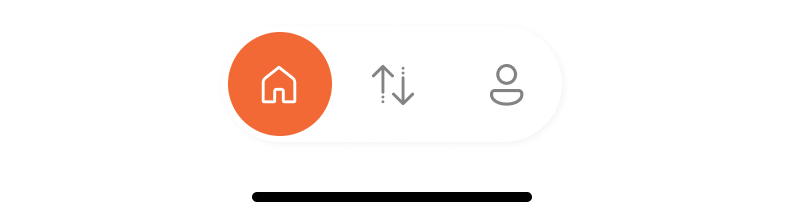
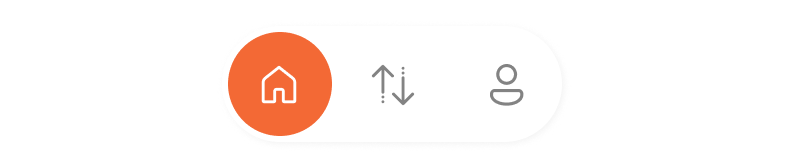
Crypex kit: no phone chrome on any part, variants grouped per tile, smaller scale
Status bar and home indicator removed from top bars, tab bars and the
primary button; one tile per component with its variants inside; parts at
62% (keypad, pickers and lists at 50%); 20 tiles instead of 39.

diff --git a/work/crypex.html b/work/crypex.html
@@ -415,73 +415,58 @@
             <p>Each state lives as a variant in Figma, so the build never depends on guesswork. The bell turns orange when there's something new, the tab bar has one state per tab, and the main action works both on the page and on a sheet. Service cards carry a badge for what's new or coming soon, so the roadmap shows up in the app itself.</p>
           </div>
           <div class="frame cx-kit">
-            <span class="frame__label"><b>Components</b> 6 groups · 42 parts</span>
+            <span class="frame__label"><b>Components</b> 6 groups · 39 parts</span>
             <div class="cx-kit__group">
               <p class="cx-label">Navigation</p>
-              <div class="cx-kit__flow">
-                <figure style="--w: 350px"><img src="../assets/img/crypex/components/topbar-greeting.webp" width="393" height="130" alt="Top bar with the status bar, “Olá, Rafael” and a grey bell." loading="lazy"><figcaption>Top bar · greeting</figcaption></figure>
-                <figure style="--w: 350px"><img src="../assets/img/crypex/components/topbar-greeting-alert.webp" width="393" height="130" alt="Top bar with “Olá, Rafael” and an orange bell for new notifications." loading="lazy"><figcaption>Top bar · new notification</figcaption></figure>
-                <figure style="--w: 350px"><img src="../assets/img/crypex/components/topbar-title-close.webp" width="393" height="130" alt="Top bar with the title “Pagamentos” and a close button." loading="lazy"><figcaption>Top bar · title and close</figcaption></figure>
-                <figure style="--w: 350px"><img src="../assets/img/crypex/components/topbar-title.webp" width="393" height="130" alt="Top bar with the title “Pagamentos” only." loading="lazy"><figcaption>Top bar · title</figcaption></figure>
-                <figure style="--w: 350px"><img src="../assets/img/crypex/components/tab-home.webp" width="393" height="108" alt="Tab bar with Home active in an orange circle." loading="lazy"><figcaption>Tab bar · home</figcaption></figure>
-                <figure style="--w: 350px"><img src="../assets/img/crypex/components/tab-pay.webp" width="393" height="108" alt="Tab bar with Pay active in an orange circle." loading="lazy"><figcaption>Tab bar · pay</figcaption></figure>
-                <figure style="--w: 350px"><img src="../assets/img/crypex/components/tab-profile.webp" width="393" height="108" alt="Tab bar with Profile active in an orange circle." loading="lazy"><figcaption>Tab bar · profile</figcaption></figure>
-                <figure style="--w: 328px"><img src="../assets/img/crypex/components/stepper.webp" width="367" height="68" alt="Back button, “Preencha seus dados pessoais” and three progress dots with the second one active." loading="lazy"><figcaption>Step header</figcaption></figure>
-                <figure style="--w: 326px"><img src="../assets/img/crypex/components/tabs.webp" width="365" height="46" alt="A single “Enviados” tab, underlined, above a divider." loading="lazy"><figcaption>Tabs</figcaption></figure>
+              <div class="cx-kit__board">
+                <figure class="cx-tile"><div class="cx-tile__art"><img src="../assets/img/crypex/components/topbar-greeting.webp" width="244" height="24" style="width: 244px" alt="Top bar with “Olá, Rafael” and a grey bell." loading="lazy"><img src="../assets/img/crypex/components/topbar-greeting-alert.webp" width="244" height="24" style="width: 244px" alt="Top bar with “Olá, Rafael” and an orange bell for new notifications." loading="lazy"><img src="../assets/img/crypex/components/topbar-title-close.webp" width="244" height="24" style="width: 244px" alt="Top bar with the title “Pagamentos” and a close button." loading="lazy"><img src="../assets/img/crypex/components/topbar-title.webp" width="244" height="24" style="width: 244px" alt="Top bar with the title “Pagamentos” only." loading="lazy"></div><figcaption><b>Top bar</b><span>Greeting · new notification · title and close · title</span></figcaption></figure>
+                <figure class="cx-tile"><div class="cx-tile__art"><img src="../assets/img/crypex/components/tab-home.webp" width="244" height="52" style="width: 244px" alt="Tab bar with Home active." loading="lazy"><img src="../assets/img/crypex/components/tab-pay.webp" width="244" height="52" style="width: 244px" alt="Tab bar with Pay active." loading="lazy"><img src="../assets/img/crypex/components/tab-profile.webp" width="244" height="52" style="width: 244px" alt="Tab bar with Profile active." loading="lazy"></div><figcaption><b>Tab bar</b><span>Home · pay · profile</span></figcaption></figure>
+                <figure class="cx-tile"><div class="cx-tile__art"><img src="../assets/img/crypex/components/stepper.webp" width="228" height="42" style="width: 228px" alt="Back button, a step title and three progress dots with the second one active." loading="lazy"></div><figcaption><b>Step header</b><span>Back, title and progress</span></figcaption></figure>
               </div>
             </div>
             <div class="cx-kit__group">
               <p class="cx-label">Actions</p>
-              <div class="cx-kit__flow">
-                <figure style="--w: 350px"><img src="../assets/img/crypex/components/cta.webp" width="393" height="108" alt="Full-width orange Continue button above the home indicator." loading="lazy"><figcaption>Primary · on the page</figcaption></figure>
-                <figure style="--w: 357px"><img src="../assets/img/crypex/components/cta-sheet.webp" width="401" height="116" alt="The same Continue button on a white sheet." loading="lazy"><figcaption>Primary · on a sheet</figcaption></figure>
-                <figure style="--w: 326px"><img src="../assets/img/crypex/components/btn-google.webp" width="365" height="68" alt="Grey button with the Gmail logo: Entrar com Google." loading="lazy"><figcaption>Secondary · Google</figcaption></figure>
-                <figure style="--w: 326px"><img src="../assets/img/crypex/components/btn-apple.webp" width="365" height="68" alt="Grey button with the Apple logo: Entrar com Apple ID." loading="lazy"><figcaption>Secondary · Apple</figcaption></figure>
-                <figure style="--w: 137px"><img src="../assets/img/crypex/components/link-forgot.webp" width="145" height="39" alt="Underlined grey link: Esqueceu a senha?" loading="lazy"><figcaption>Text link</figcaption></figure>
-                <figure style="--w: 197px"><img src="../assets/img/crypex/components/link-signup.webp" width="215" height="40" alt="“Novo na Crypex?” followed by an orange Cadastre-se link." loading="lazy"><figcaption>Inline link</figcaption></figure>
-                <figure style="--w: 318px"><img src="../assets/img/crypex/components/keypad.webp" width="356" height="310" alt="Numeric keypad with Limpar and an active orange Continuar." loading="lazy"><figcaption>Keypad · ready</figcaption></figure>
-                <figure style="--w: 318px"><img src="../assets/img/crypex/components/keypad-off.webp" width="356" height="78" alt="Limpar and Continuar in grey, before an amount is typed." loading="lazy"><figcaption>Keypad actions · off</figcaption></figure>
+              <div class="cx-kit__board">
+                <figure class="cx-tile"><div class="cx-tile__art"><img src="../assets/img/crypex/components/cta.webp" width="244" height="47" style="width: 244px" alt="Full-width orange Continue button." loading="lazy"><img src="../assets/img/crypex/components/btn-google.webp" width="226" height="42" style="width: 226px" alt="Grey button with the Gmail logo: Entrar com Google." loading="lazy"><img src="../assets/img/crypex/components/btn-apple.webp" width="226" height="42" style="width: 226px" alt="Grey button with the Apple logo: Entrar com Apple ID." loading="lazy"></div><figcaption><b>Buttons</b><span>Primary · Google · Apple</span></figcaption></figure>
+                <figure class="cx-tile"><div class="cx-tile__art"><img src="../assets/img/crypex/components/link-forgot.webp" width="116" height="31" style="width: 116px" alt="Underlined grey link: Esqueceu a senha?" loading="lazy"><img src="../assets/img/crypex/components/link-signup.webp" width="172" height="32" style="width: 172px" alt="“Novo na Crypex?” followed by an orange Cadastre-se link." loading="lazy"></div><figcaption><b>Links</b><span>Text link · inline link</span></figcaption></figure>
+                <figure class="cx-tile"><div class="cx-tile__art"><img src="../assets/img/crypex/components/keypad.webp" width="178" height="155" style="width: 178px" alt="Numeric keypad with Limpar and an active orange Continuar." loading="lazy"><img src="../assets/img/crypex/components/keypad-off.webp" width="178" height="39" style="width: 178px" alt="Limpar and Continuar in grey, before an amount is typed." loading="lazy"></div><figcaption><b>Keypad</b><span>Ready · actions off</span></figcaption></figure>
               </div>
             </div>
             <div class="cx-kit__group">
               <p class="cx-label">Inputs</p>
-              <div class="cx-kit__flow">
-                <figure style="--w: 326px"><img src="../assets/img/crypex/components/field-empty.webp" width="365" height="70" alt="Empty text field with the placeholder Nome." loading="lazy"><figcaption>Text field · empty</figcaption></figure>
-                <figure style="--w: 326px"><img src="../assets/img/crypex/components/field-filled.webp" width="365" height="70" alt="Filled field: a small Email label above rafael.nogueira@email.com." loading="lazy"><figcaption>Text field · filled</figcaption></figure>
-                <figure style="--w: 326px"><img src="../assets/img/crypex/components/field-password.webp" width="365" height="70" alt="Password field with a small Senha label and an eye icon." loading="lazy"><figcaption>Password · filled</figcaption></figure>
-                <figure style="--w: 328px"><img src="../assets/img/crypex/components/field-error.webp" width="368" height="87" alt="Field with a red label and underline and the message: passwords don’t match." loading="lazy"><figcaption>Text field · error</figcaption></figure>
-                <figure style="--w: 326px"><img src="../assets/img/crypex/components/search.webp" width="365" height="54" alt="Search field with a magnifier: search by transaction code, amount or recipient." loading="lazy"><figcaption>Search</figcaption></figure>
-                <figure style="--w: 328px"><img src="../assets/img/crypex/components/converter.webp" width="368" height="193" alt="Two stacked cards, From ETH 0.13 and To Pix R$ 2,500.00, with the live rate below." loading="lazy"><figcaption>Converter</figcaption></figure>
+              <div class="cx-kit__board">
+                <figure class="cx-tile"><div class="cx-tile__art"><img src="../assets/img/crypex/components/field-empty.webp" width="226" height="43" style="width: 226px" alt="Empty text field with the placeholder Nome." loading="lazy"><img src="../assets/img/crypex/components/field-filled.webp" width="226" height="43" style="width: 226px" alt="Filled field: a small Email label above rafael.nogueira@email.com." loading="lazy"><img src="../assets/img/crypex/components/field-password.webp" width="226" height="43" style="width: 226px" alt="Password field with a small Senha label and an eye icon." loading="lazy"><img src="../assets/img/crypex/components/field-error.webp" width="228" height="54" style="width: 228px" alt="Field with a red label and underline and the message: passwords don’t match." loading="lazy"></div><figcaption><b>Text field</b><span>Empty · filled · password · error</span></figcaption></figure>
+                <figure class="cx-tile"><div class="cx-tile__art"><img src="../assets/img/crypex/components/search.webp" width="226" height="33" style="width: 226px" alt="Search field: search by transaction code, amount or recipient." loading="lazy"></div><figcaption><b>Search</b><span>Code, amount or recipient</span></figcaption></figure>
+                <figure class="cx-tile"><div class="cx-tile__art"><img src="../assets/img/crypex/components/converter.webp" width="228" height="120" style="width: 228px" alt="Two stacked cards, From ETH 0.13 and To Pix R$ 2,500.00, with the live rate below." loading="lazy"></div><figcaption><b>Converter</b><span>From, to and live rate</span></figcaption></figure>
               </div>
             </div>
             <div class="cx-kit__group">
               <p class="cx-label">Cards and lists</p>
-              <div class="cx-kit__flow">
-                <figure class="cx-kit__setfig" style="--w: 300px"><div class="cx-kit__set"><img src="../assets/img/crypex/components/card-pix.webp" width="130" height="112" alt="Service card: Pix, pay a Pix using your crypto." loading="lazy"><img src="../assets/img/crypex/components/card-boleto.webp" width="130" height="114" alt="Service card: Boleto, with a “Novo” badge." loading="lazy"><img src="../assets/img/crypex/components/card-payments.webp" width="130" height="112" alt="Service card: Payments, see your payments." loading="lazy"><img src="../assets/img/crypex/components/card-card.webp" width="130" height="114" alt="Service card: Card, with an “Em breve” badge." loading="lazy"></div><figcaption>Service cards · Pix, Boleto (new), Payments, Card (soon)</figcaption></figure>
-                <figure style="--w: 326px"><img src="../assets/img/crypex/components/balance.webp" width="365" height="103" alt="Card with Saldo, U$ 1,850.46 and a chevron." loading="lazy"><figcaption>Balance</figcaption></figure>
-                <figure style="--w: 327px"><img src="../assets/img/crypex/components/insights.webp" width="366" height="146" alt="AI insights card with the IA badge and a short description." loading="lazy"><figcaption>Insights</figcaption></figure>
-                <figure style="--w: 328px"><img src="../assets/img/crypex/components/summary.webp" width="368" height="210" alt="Card with total paid, the period in orange and the number of transactions." loading="lazy"><figcaption>Payments summary</figcaption></figure>
-                <figure style="--w: 290px"><img src="../assets/img/crypex/components/recipient.webp" width="323" height="116" alt="Recipient card: name, masked CPF and bank." loading="lazy"><figcaption>Recipient</figcaption></figure>
-                <figure style="--w: 310px"><img src="../assets/img/crypex/components/address.webp" width="346" height="58" alt="Light orange chip with a wallet address and a copy icon." loading="lazy"><figcaption>Wallet address</figcaption></figure>
-                <figure style="--w: 158px"><img src="../assets/img/crypex/components/route.webp" width="170" height="67" alt="Ethereum icon, an arrow and the Pix icon." loading="lazy"><figcaption>Payment route</figcaption></figure>
-                <figure style="--w: 326px"><img src="../assets/img/crypex/components/market.webp" width="365" height="223" alt="Market list: BTC, ETH and USDT with volume, last price and 24-hour change." loading="lazy"><figcaption>Market</figcaption></figure>
-                <figure style="--w: 326px"><img src="../assets/img/crypex/components/transactions.webp" width="365" height="166" alt="Two payments in the history list, with date, icon, name, bank and amounts." loading="lazy"><figcaption>Transactions</figcaption></figure>
-                <figure style="--w: 328px"><img src="../assets/img/crypex/components/methods.webp" width="367" height="302" alt="List of methods: balance, Bitcoin, Ethereum and Tether, each with its icon." loading="lazy"><figcaption>Payment method</figcaption></figure>
+              <div class="cx-kit__board">
+                <figure class="cx-tile"><div class="cx-tile__art cx-tile__art--grid"><img src="../assets/img/crypex/components/card-pix.webp" width="104" height="90" style="width: 104px" alt="Service card: Pix." loading="lazy"><img src="../assets/img/crypex/components/card-boleto.webp" width="104" height="92" style="width: 104px" alt="Service card: Boleto, with a “Novo” badge." loading="lazy"><img src="../assets/img/crypex/components/card-payments.webp" width="104" height="90" style="width: 104px" alt="Service card: Payments." loading="lazy"><img src="../assets/img/crypex/components/card-card.webp" width="104" height="91" style="width: 104px" alt="Service card: Card, with an “Em breve” badge." loading="lazy"></div><figcaption><b>Service cards</b><span>Pix · Boleto, new · Payments · Card, soon</span></figcaption></figure>
+                <figure class="cx-tile"><div class="cx-tile__art"><img src="../assets/img/crypex/components/balance.webp" width="226" height="64" style="width: 226px" alt="Card with Saldo, U$ 1,850.46 and a chevron." loading="lazy"></div><figcaption><b>Balance</b><span>Available to pay</span></figcaption></figure>
+                <figure class="cx-tile"><div class="cx-tile__art"><img src="../assets/img/crypex/components/insights.webp" width="227" height="91" style="width: 227px" alt="AI insights card with the IA badge." loading="lazy"></div><figcaption><b>Insights</b><span>AI, market right now</span></figcaption></figure>
+                <figure class="cx-tile"><div class="cx-tile__art"><img src="../assets/img/crypex/components/summary.webp" width="228" height="130" style="width: 228px" alt="Card with total paid, the period in orange and the number of transactions." loading="lazy"></div><figcaption><b>Payments summary</b><span>Total, period, count</span></figcaption></figure>
+                <figure class="cx-tile"><div class="cx-tile__art"><img src="../assets/img/crypex/components/recipient.webp" width="200" height="72" style="width: 200px" alt="Recipient card: name, masked CPF and bank." loading="lazy"></div><figcaption><b>Recipient</b><span>Name, CPF, bank</span></figcaption></figure>
+                <figure class="cx-tile"><div class="cx-tile__art"><img src="../assets/img/crypex/components/address.webp" width="215" height="36" style="width: 215px" alt="Light orange chip with a wallet address and a copy icon." loading="lazy"></div><figcaption><b>Wallet address</b><span>Copy to send</span></figcaption></figure>
+                <figure class="cx-tile"><div class="cx-tile__art"><img src="../assets/img/crypex/components/market.webp" width="226" height="138" style="width: 226px" alt="Market list: BTC, ETH and USDT with volume, last price and 24-hour change." loading="lazy"></div><figcaption><b>Market</b><span>Price, volume, 24h change</span></figcaption></figure>
+                <figure class="cx-tile"><div class="cx-tile__art"><img src="../assets/img/crypex/components/transactions.webp" width="226" height="103" style="width: 226px" alt="Two payments in the history list." loading="lazy"></div><figcaption><b>Transactions</b><span>Grouped by day</span></figcaption></figure>
+                <figure class="cx-tile"><div class="cx-tile__art"><img src="../assets/img/crypex/components/methods.webp" width="184" height="151" style="width: 184px" alt="List of payment methods: balance, Bitcoin, Ethereum and Tether." loading="lazy"></div><figcaption><b>Payment method</b><span>Balance · Bitcoin · Ethereum · Tether</span></figcaption></figure>
               </div>
             </div>
             <div class="cx-kit__group">
               <p class="cx-label">Pickers</p>
-              <div class="cx-kit__flow">
-                <figure style="--w: 330px"><img src="../assets/img/crypex/components/calendar.webp" width="370" height="430" alt="Calendar for September 2024 with the 2nd and the 26th selected in orange." loading="lazy"><figcaption>Date range</figcaption></figure>
-                <figure style="--w: 328px"><img src="../assets/img/crypex/components/years.webp" width="368" height="246" alt="List of years to pick from, 2024 to 2027." loading="lazy"><figcaption>Year</figcaption></figure>
+              <div class="cx-kit__board">
+                <figure class="cx-tile"><div class="cx-tile__art"><img src="../assets/img/crypex/components/calendar.webp" width="185" height="215" style="width: 185px" alt="Calendar for September 2024 with the 2nd and the 26th selected." loading="lazy"></div><figcaption><b>Date range</b><span>Start and end in orange</span></figcaption></figure>
+                <figure class="cx-tile"><div class="cx-tile__art"><img src="../assets/img/crypex/components/years.webp" width="184" height="123" style="width: 184px" alt="List of years to pick from, 2024 to 2027." loading="lazy"></div><figcaption><b>Year</b><span>Scrolling list</span></figcaption></figure>
               </div>
             </div>
             <div class="cx-kit__group">
               <p class="cx-label">Feedback</p>
-              <div class="cx-kit__flow">
-                <figure class="cx-kit__setfig" style="--w: 300px"><div class="cx-kit__set cx-kit__set--status"><img src="../assets/img/crypex/components/status-success.webp" width="137" height="137" alt="Green check in a soft circle." loading="lazy"><img src="../assets/img/crypex/components/status-failure.webp" width="137" height="137" alt="Red cross in a soft circle." loading="lazy"></div><figcaption>Status · success, failure</figcaption></figure>
-                <figure style="--w: 143px"><img src="../assets/img/crypex/components/badges.webp" width="152" height="42" alt="Three orange badges: IA, Novo and Em breve." loading="lazy"><figcaption>Badges</figcaption></figure>
-                <figure style="--w: 163px"><img src="../assets/img/crypex/components/change.webp" width="176" height="52" alt="Green +0.23% and red -0.11% pills." loading="lazy"><figcaption>Market change</figcaption></figure>
+              <div class="cx-kit__board">
+                <figure class="cx-tile"><div class="cx-tile__art cx-tile__art--grid"><img src="../assets/img/crypex/components/status-success.webp" width="85" height="85" style="width: 85px" alt="Green check in a soft circle." loading="lazy"><img src="../assets/img/crypex/components/status-failure.webp" width="85" height="85" style="width: 85px" alt="Red cross in a soft circle." loading="lazy"></div><figcaption><b>Status</b><span>Success · failure</span></figcaption></figure>
+                <figure class="cx-tile"><div class="cx-tile__art"><img src="../assets/img/crypex/components/badges.webp" width="122" height="34" style="width: 122px" alt="Three orange badges: IA, Novo and Em breve." loading="lazy"></div><figcaption><b>Badges</b><span>IA · Novo · Em breve</span></figcaption></figure>
+                <figure class="cx-tile"><div class="cx-tile__art"><img src="../assets/img/crypex/components/change.webp" width="140" height="42" style="width: 140px" alt="Green +0.23% and red -0.11% pills." loading="lazy"></div><figcaption><b>Market change</b><span>Up · down</span></figcaption></figure>
               </div>
             </div>
           </div>

diff --git a/assets/css/case-crypex.css b/assets/css/case-crypex.css
@@ -219,17 +219,19 @@
 .cx-kit__row--cards img { padding: 10px 8px 8px; }
 .cx-kit figcaption { font-family: var(--font-mono); font-size: 10.5px; letter-spacing: 0.04em; color: var(--color-text-subtle); }
 
-/* expanded kit: every part at 1x, flowing in its group */
-.cx-kit__flow { columns: 3 280px; column-gap: var(--sp-4); }
-.cx-kit__flow figure {
-  break-inside: avoid; margin: 0 0 var(--sp-4); padding: var(--sp-4) var(--sp-4) var(--sp-3);
-  display: grid; justify-items: center; gap: var(--sp-3); background: #F2F2F2; border-radius: var(--radius-2);
+/* kit board: one tile per component, its variants stacked inside */
+.cx-kit__board { columns: 3 260px; column-gap: var(--sp-4); }
+.cx-kit .cx-tile {
+  break-inside: avoid; margin: 0 0 var(--sp-4); padding: var(--sp-5) var(--sp-4) var(--sp-4);
+  display: grid; gap: var(--sp-4); background: #F2F2F2; border-radius: var(--radius-2);
 }
-.cx-kit__flow img { width: min(calc(var(--w, 200px) - 12px), 100%); padding: 0; background: none; border-radius: 6px; }
-.cx-kit__set { display: grid; grid-template-columns: repeat(2, minmax(0, 1fr)); gap: var(--sp-3); align-items: end; justify-items: center; width: 100%; }
-.cx-kit__flow .cx-kit__set img { width: min(112px, 100%); }
-.cx-kit__flow .cx-kit__set--status img { width: min(96px, 100%); }
-.cx-kit__flow figcaption { justify-self: stretch; padding-top: var(--sp-2); border-top: 1px solid rgba(22, 21, 15, 0.08); }
+.cx-tile__art { display: grid; gap: var(--sp-3); justify-items: center; }
+.cx-tile__art--grid { grid-template-columns: repeat(2, auto); justify-content: center; align-items: end; }
+.cx-kit .cx-tile img { max-width: 100%; height: auto; padding: 0; background: none; border-radius: 6px; }
+.cx-tile figcaption { display: grid; gap: 2px; padding-top: var(--sp-3); border-top: 1px solid rgba(22, 21, 15, 0.08); }
+.cx-tile figcaption b { font-family: var(--font-sans); font-size: var(--fs-14); font-weight: 600; letter-spacing: 0; color: var(--color-text); }
+.cx-tile figcaption span { font-family: var(--font-mono); font-size: 10.5px; letter-spacing: 0.03em; color: var(--color-text-subtle); }
+.cx-kit__group + .cx-kit__group { padding-top: var(--sp-6); border-top: 1px dashed var(--color-border); }
 
 /* ---------- Brand ---------- */
 .cx-brand { margin-top: var(--sp-2); display: grid; grid-template-columns: minmax(0, 6fr) minmax(0, 3fr) minmax(0, 3fr); gap: var(--sp-6); align-items: stretch; }
